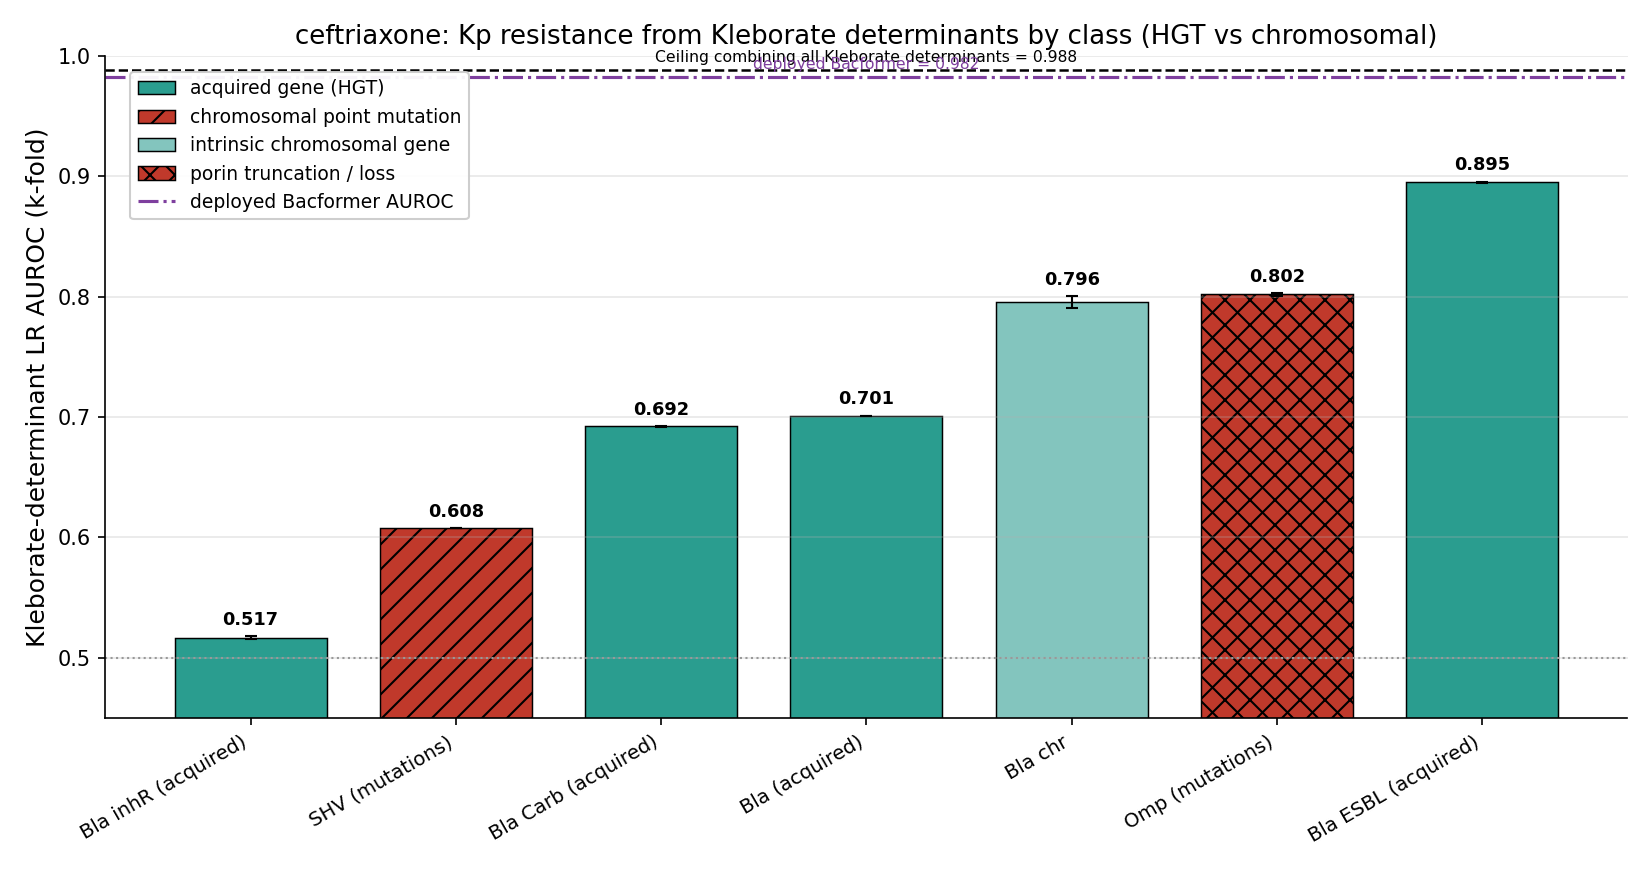
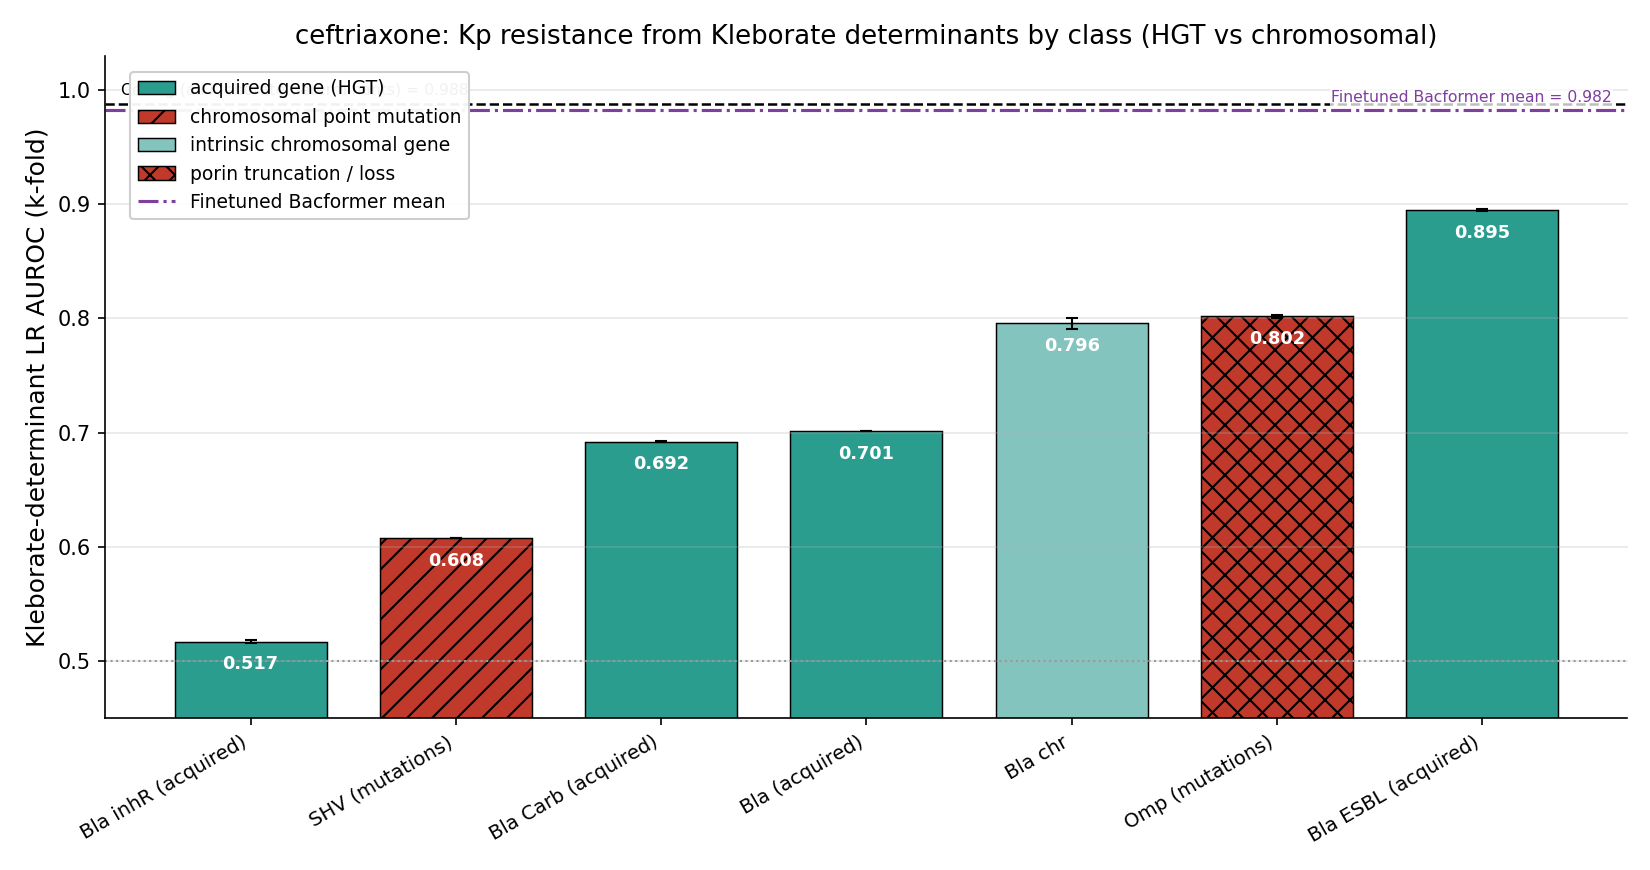
fix(kleb_ast): cause-histogram label polish + rename to 'Finetuned Bacformer mean'
Per review: value label now sits inside the top of each bar (white), ceiling and
Bacformer line-labels pinned to opposite ends (far-left / far-right) with a white
bbox so neither overlaps the other or the crossing line, y-axis raised to 1.03 for
title clearance, and the reference line renamed 'Finetuned Bacformer mean' (in both
the histograms and the summary dumbbell) to reserve the name for the concat embedding
we add to the ladder later.

diff --git a/src/kleb_ast/plot_kleborate_cause_histogram.py b/src/kleb_ast/plot_kleborate_cause_histogram.py
@@ -64,24 +64,30 @@ def plot_cause(csv_path: Path, out_path: Path, *, drug: str, bacformer_auroc: fl
     for b, h in zip(rendered, hatches, strict=True):
         if h:
             b.set_hatch(h)
-    for i, (v, sd) in enumerate(zip(bars["mut_auroc"], bars["mut_auroc_sd"], strict=True)):
-        ax.text(i, v + sd + 0.006, f"{v:.3f}", ha="center", va="bottom", fontsize=8.5, fontweight="bold")
+    # Value label *inside* the top of each bar (white) — keeps it clear of the ceiling/Bacformer lines
+    # even when a single tall bar reaches them.
+    for i, v in enumerate(bars["mut_auroc"]):
+        ax.text(i, v - 0.012, f"{v:.3f}", ha="center", va="top", fontsize=8.5, fontweight="bold", color="white")
 
+    # Line labels at opposite ends (ceiling far-left, Bacformer far-right) so they never overlap each
+    # other, via a blended transform (x = axes fraction, y = data).
+    blend = ax.get_yaxis_transform()
+    label_bbox = {"facecolor": "white", "edgecolor": "none", "alpha": 0.75, "pad": 0.5}
     if not full.empty:
         fa = float(full["mut_auroc"].iloc[0])
         ax.axhline(fa, color="black", linestyle="--", linewidth=1.2)
-        ax.text((len(bars) - 1) / 2, fa + 0.004, f"Ceiling combining all Kleborate determinants = {fa:.3f}",
-                ha="center", va="bottom", fontsize=7.5)
+        ax.text(0.01, fa + 0.005, f"Ceiling (all Kleborate determinants) = {fa:.3f}",
+                transform=blend, ha="left", va="bottom", fontsize=7.5, bbox=label_bbox)
     if bacformer_auroc is not None:
         ax.axhline(bacformer_auroc, color=BACFORMER_COLOUR, linestyle="-.", linewidth=1.5)
-        ax.text((len(bars) - 1) / 2, bacformer_auroc + 0.004, f"deployed Bacformer = {bacformer_auroc:.3f}",
-                ha="center", va="bottom", fontsize=7.5, color=BACFORMER_COLOUR)
+        ax.text(0.99, bacformer_auroc + 0.005, f"Finetuned Bacformer mean = {bacformer_auroc:.3f}",
+                transform=blend, ha="right", va="bottom", fontsize=7.5, color=BACFORMER_COLOUR, bbox=label_bbox)
     ax.axhline(0.5, color="0.6", linestyle=":", linewidth=1.0)
 
     ax.set_xticks(list(x))
     ax.set_xticklabels(bars["site"], rotation=30, ha="right", fontsize=9.5)
     ax.set_ylabel("Kleborate-determinant LR AUROC (k-fold)", fontsize=12)
-    ax.set_ylim(0.45, 1.0)
+    ax.set_ylim(0.45, 1.03)
     ax.grid(axis="y", alpha=0.3)
     ax.spines[["top", "right"]].set_visible(False)
 
@@ -95,7 +101,7 @@ def plot_cause(csv_path: Path, out_path: Path, *, drug: str, bacformer_auroc: fl
         labels.append(label)
     if bacformer_auroc is not None:
         handles.append(plt.Line2D([0], [0], color=BACFORMER_COLOUR, linestyle="-.", linewidth=1.5))
-        labels.append("deployed Bacformer AUROC")
+        labels.append("Finetuned Bacformer mean")
     ax.legend(handles, labels, loc="upper left", bbox_to_anchor=(0.01, 0.99), fontsize=9, framealpha=0.95)
     ax.set_title(f"{drug}: Kp resistance from Kleborate determinants by class (HGT vs chromosomal)", fontsize=12.5)
     fig.tight_layout()

diff --git a/src/kleb_ast/plot_ceiling_vs_bacformer_summary.py b/src/kleb_ast/plot_ceiling_vs_bacformer_summary.py
@@ -67,7 +67,8 @@ def plot_summary(table: pd.DataFrame, out_path: Path) -> None:
         line_colour = BEATS_COLOUR if row.gap > GAP_THRESHOLD else TIE_COLOUR
         ax.plot([row.ceiling, row.bacformer], [yi, yi], color=line_colour, linewidth=2.2, zorder=1)
     ax.scatter(table["ceiling"], list(y), color=CEILING_COLOUR, s=70, zorder=2, label="Kleborate ceiling", marker="o")
-    ax.scatter(table["bacformer"], list(y), color=BACFORMER_COLOUR, s=70, zorder=2, label="deployed Bacformer", marker="D")
+    ax.scatter(table["bacformer"], list(y), color=BACFORMER_COLOUR, s=70, zorder=2,
+               label="Finetuned Bacformer mean", marker="D")
 
     for yi, row in zip(y, table.itertuples(), strict=True):
         if abs(row.gap) > GAP_THRESHOLD:
@@ -82,7 +83,7 @@ def plot_summary(table: pd.DataFrame, out_path: Path) -> None:
     ax.grid(axis="x", alpha=0.3)
     ax.spines[["top", "right"]].set_visible(False)
     ax.legend(loc="lower left", fontsize=10, framealpha=0.95)
-    ax.set_title("Kp AST: Kleborate determinant ceiling vs deployed Bacformer\n"
+    ax.set_title("Kp AST: Kleborate determinant ceiling vs finetuned Bacformer mean\n"
                  "teal = Bacformer exceeds the catalogue (the drugs Kleborate is blind to)",
                  fontsize=12.5)
     fig.tight_layout()
